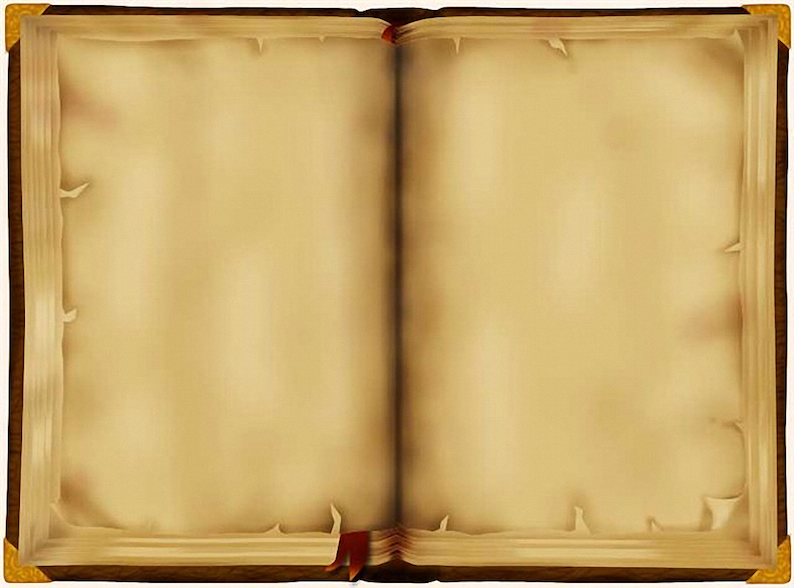
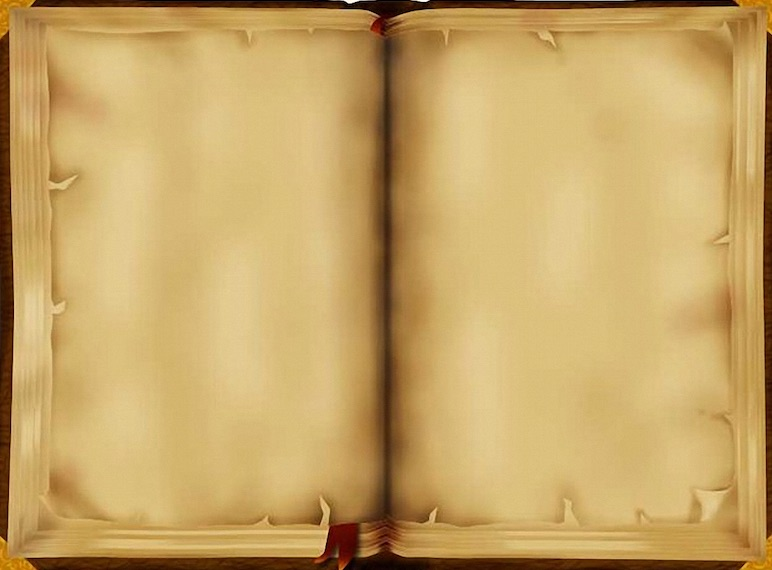
refactor the layout

Changed region(s): [[0.0, 0.0, 1.0, 1.0]]

diff --git a/client/styles/style.css b/client/styles/style.css
@@ -1,69 +1,114 @@
 .background {
-  width: 700px;
-  height: 500px;
+  width: 900px;
+  height: 700px;
   position: relative;
   z-index: 1;
+  background-color: grey;
+  border: 1px solid;
+}
+
+.title {
+  width: 300px;
+  height: 50px;
+  top: 20px;
+  left: 300px;
+  text-align: center;
+  position: absolute;
+  z-index: 20;
+  border: 0.5px solid;
+  background-color: yellow;
 }
 
 .book {
-  width: 650px;
-  height: 350px;
-  left: 80px;
-  top: 50px;
+  width: 780px;
+  height: 400px;
+  left: 70px;
+  top: 80px;
   border: 1px solid;
   position: absolute;
   z-index: 10;
+  background-color: blue;
 }
 
-.left-page {
+.left-page-text {
   position: absolute;
-  left: 90px;
-  top: 60px;
-  width: 280px;
+  left: 100px;
+  top: 100px;
+  width: 320px;
   height: 200px;
   border: 0.5px solid;
   z-index: 13;
   text-align: center;
+  background-color: green;
 }
 
-.right-page {
+.right-page-text {
   position: absolute;
-  left: 440px;
-  top: 60px;
-  width: 280px;
+  left: 490px;
+  top: 100px;
+  width: 320px;
   height: 200px;
   border: 0.5px solid;
   z-index: 13;
   text-align: center;
+  background-color: green;
+}
+
+.left-page-image {
+  position: absolute;
+  left: 100px;
+  top: 300px;
+  width: 320px;
+  height: 150px;
+  border: 0.5px solid;
+  z-index: 13;
+  text-align: center;
+  background-color: aqua;
+}
+
+.right-page-image {
+  position: absolute;
+  left: 490px;
+  top: 300px;
+  width: 320px;
+  height: 150px;
+  border: 0.5px solid;
+  z-index: 13;
+  text-align: center;
+  background-color: aqua;
 }
 
 .prev-button {  
-  left: 200px;
-  top: 350px;
-  width: 80px;
-  height: 30px;
-  border: 1px solid;
+  left: 20px;
+  top: 250px;
   position: absolute;
   z-index: 15;
 }
 
 .next-button {
-  left: 500px;
-  top: 350px;
-  width: 80px;
-  height: 30px;
-  border: 1px solid;
+  left: 865px;
+  top: 250px;
   position: absolute;
   z-index: 15;
+}
+
+.webcam{
+  left:20px;
+  top: 500px;
+  position: absolute;
+  z-index: 20;
+  width: 880px;
+  height: 200px;
+  background-color: red;
 }
 
 .video1 {
   position: absolute;
   z-index: 20;
-  width: 140px;
-  height: 120px;
-  top: 410px;
-  left: 180px;
+  width: 200px;
+  height: 170px;
+  top: 520px;
+  left: 230px;
   border: 0.5px solid;
   background-color: white;
   text-align: center;
@@ -72,9 +117,9 @@
 .video2 {
   position: absolute;
   z-index: 20;
-  width: 140px;
-  height: 120px;
-  top: 410px;
+  width: 200px;
+  height: 170px;
+  top: 520px;
   left: 480px;
   border: 0.5px solid;
   background-color: white;

diff --git a/client/components/App.js b/client/components/App.js
@@ -1,19 +1,23 @@
 import React, { PropTypes, Component } from 'react';
 import Book from './Book.js';
-import PrevButton from './prevButton.js';
-import NextButton from './nextButton.js';
-import Background from './background.js';
-import LeftPage from './leftPage.js';
-import RightPage from './rightPage.js';
-import Video1 from './video1.js';
-import Video2 from './video2.js';
+import Title from './Title.js';
+import PrevButton from './PrevButton.js';
+import NextButton from './NextButton.js';
+import Background from './Background.js';
+import LeftPageText from './LeftPageText.js';
+import RightPageText from './RightPageText.js';
+import LeftPageImage from './LeftPageImage.js';
+import RightPageImage from './RightPageImage.js';
+import Video1 from './Video1.js';
+import Video2 from './Video2.js';
+import Webcam from './Webcam.js';
 
 class App extends React.Component {
   constructor(props) {
     super(props);
 
     this.state = {
-      msg: 'hello'
+      msg: 'book'
     };
 
     socket.on('prev page', (data) => {
@@ -44,11 +48,15 @@ class App extends React.Component {
     return (
       <div>
         <Background />
+        <Title />
         <Book msg={this.state.msg}/>
-        <LeftPage />
-        <RightPage />
+        <LeftPageText />
+        <RightPageText />
+        <LeftPageImage />
+        <RightPageImage />
         <PrevButton clickHandler={this.onClickPrev.bind(this)}/>
         <NextButton clickHandler={this.onClickNext.bind(this)}/>
+        <Webcam />
         <Video1 />
         <Video2 />
       </div>

diff --git a/client/components/prevButton.js b/client/components/prevButton.js
@@ -2,7 +2,7 @@ import React, { PropTypes, Component } from 'react';
 
 var PrevButton = (props) => (
   <div className="prev-button"> 
-    <button onClick={props.clickHandler}>Previous Page</button>
+    <button onClick={props.clickHandler}>Prev</button>
   </div>  
   );
 

diff --git a/client/components/nextButton.js b/client/components/nextButton.js
@@ -2,7 +2,7 @@ import React, { PropTypes, Component } from 'react';
 
 var NextButton = (props) => (
   <div className="next-button"> 
-    <button onClick={props.clickHandler}>Next Page</button>
+    <button onClick={props.clickHandler}>Next</button>
   </div>  
   );
 

diff --git a/client/components/RightPageImage.js b/client/components/RightPageImage.js
@@ -1,0 +1,9 @@
+import React, { PropTypes, Component } from 'react';
+
+var RightPageImage = (props) => (
+  <div className="right-page-image"> 
+   <h2> Right Page Image </h2>
+  </div>  
+  );
+
+export default RightPageImage;

diff --git a/client/components/LeftPageImage.js b/client/components/LeftPageImage.js
@@ -1,0 +1,9 @@
+import React, { PropTypes, Component } from 'react';
+
+var LeftPageImage = (props) => (
+  <div className="left-page-image"> 
+    <h2> Left Page Image </h2>
+  </div>  
+  );
+
+export default LeftPageImage;

diff --git a/client/components/RightPageText.js b/client/components/RightPageText.js
@@ -1,0 +1,9 @@
+import React, { PropTypes, Component } from 'react';
+
+var RightPageText = (props) => (
+  <div className="right-page-text"> 
+   <h2> Right Page Text </h2>
+  </div>  
+  );
+
+export default RightPageText;

diff --git a/client/components/LeftPageText.js b/client/components/LeftPageText.js
@@ -1,0 +1,9 @@
+import React, { PropTypes, Component } from 'react';
+
+var LeftPageText = (props) => (
+  <div className="left-page-text"> 
+    <h2> Left Page Text </h2>
+  </div>  
+  );
+
+export default LeftPageText;

diff --git a/client/components/book.js b/client/components/book.js
@@ -2,7 +2,6 @@ import React, { PropTypes, Component } from 'react';
 
 var Book = (props) => (
       <div className="book">
-      <img src="../assets/book.jpg"></img>
         <h2>{props.msg}</h2>
       </div>
     );

diff --git a/client/components/background.js b/client/components/background.js
@@ -2,7 +2,6 @@ import React, { PropTypes, Component } from 'react';
 
 var Background = (props) => (
       <div className="background">
-        <img src="../assets/background.jpg"></img>
       </div>
     );
   

diff --git a/client/components/Title.js b/client/components/Title.js
@@ -1,0 +1,9 @@
+import React, { PropTypes, Component } from 'react';
+
+var Title = (props) => (
+  <div className="title"> 
+   <h1> Book Title  </h1>
+  </div>  
+  );
+
+export default Title;

diff --git a/client/components/Webcam.js b/client/components/Webcam.js
@@ -1,0 +1,9 @@
+import React, { PropTypes, Component } from 'react';
+
+var Webcam = (props) => (
+  <div className="webcam"> 
+    <h4> Webcam </h4>
+  </div>  
+  );
+
+export default Webcam;
